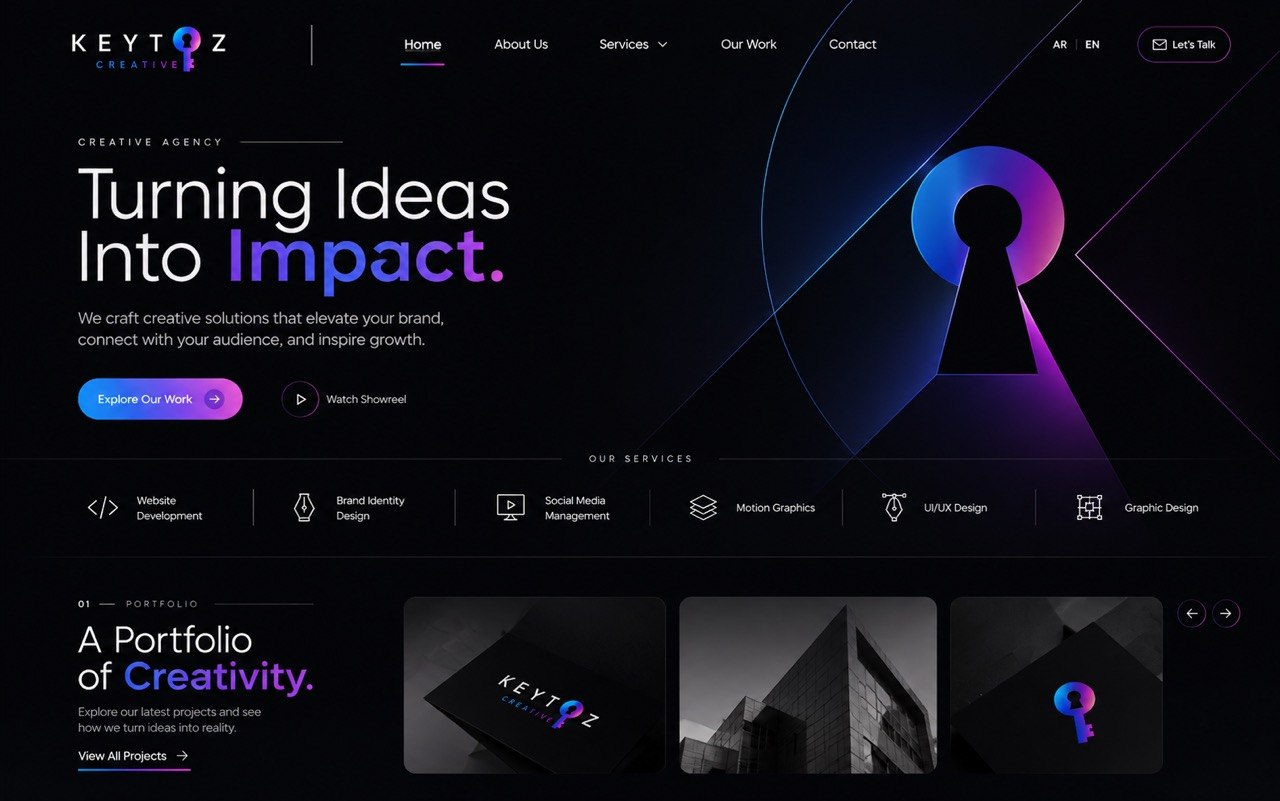
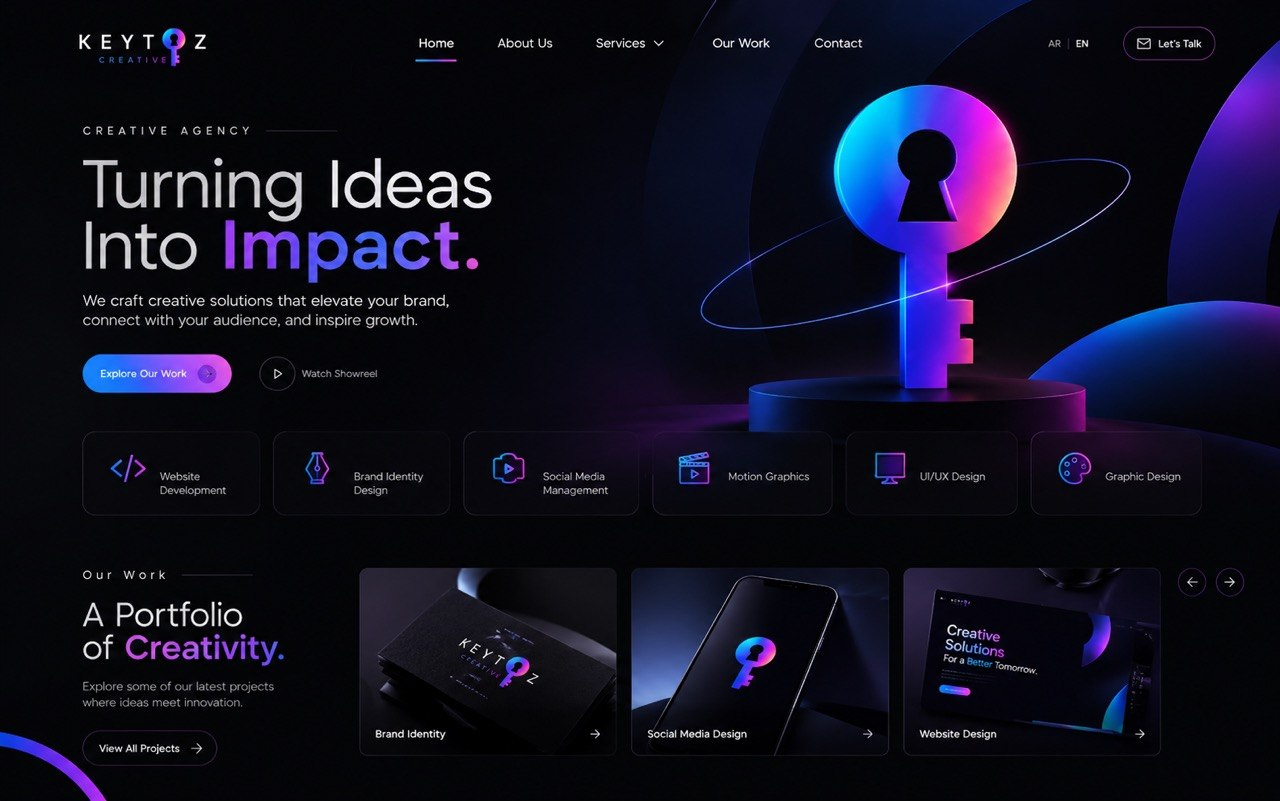
Portfolio

diff --git a/vite.config.js b/vite.config.js
@@ -1,13 +1,13 @@
 import { defineConfig } from 'vite';
 import react from '@vitejs/plugin-react';
 
-// `base: './'` produces relative asset URLs, so the same build works on
-// GitHub Pages (https://<user>.github.io/<repo>/), Netlify, Vercel,
-// Cloudflare Pages or any static host — without changing configuration.
+// `base: './'` makes every asset path relative, so the SAME build works on
+// GitHub Pages (https://<user>.github.io/mozon-portfolio/), Cloudflare,
+// Netlify, Vercel or any other static host — no changes needed.
+// Keep exactly ONE `base` line in this file.
 export default defineConfig({
   base: './',
   plugins: [react()],
-  base: '/',
   server: {
     port: 5173,
     open: true,

diff --git a/src/data/projects.js b/src/data/projects.js
@@ -92,25 +92,21 @@ export const projects = {
      {
     id: 1,
     title: 'Motion 1',
-    image: '/images/projects/motion-graphics/1.jpg',
     video: '/images/projects/motion-graphics/1.mp4',
   },
   {
     id: 2,
     title: 'Motion 2',
-    image: '/images/projects/motion-graphics/2.jpg',
     video: '/images/projects/motion-graphics/2.mp4',
   },
   {
     id: 3,
     title: 'Motion 3',
-    image: '/images/projects/motion-graphics/3.jpg',
     video: '/images/projects/motion-graphics/3.mp4',
   },
   {
-    id: 2,
+    id: 4,
     title: 'Motion 4',
-    image: '/images/projects/motion-graphics/4.jpg',
     video: '/images/projects/motion-graphics/4.mp4',
   },
 
